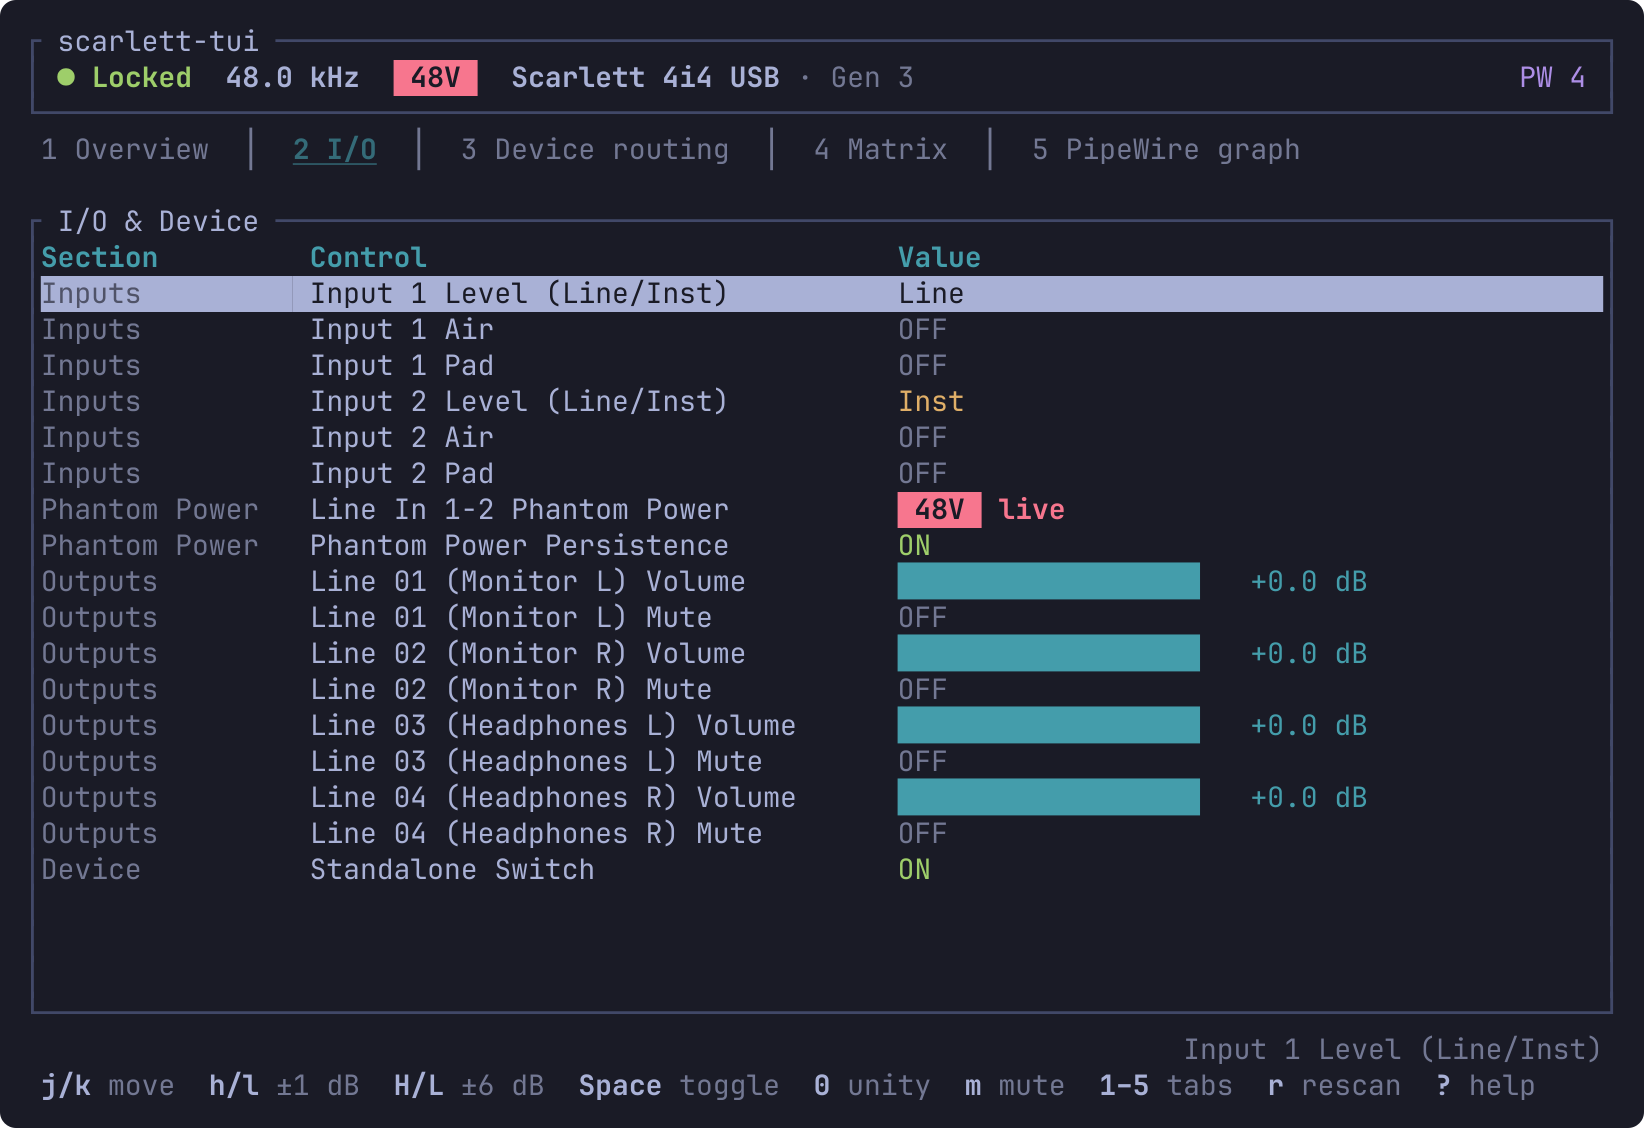
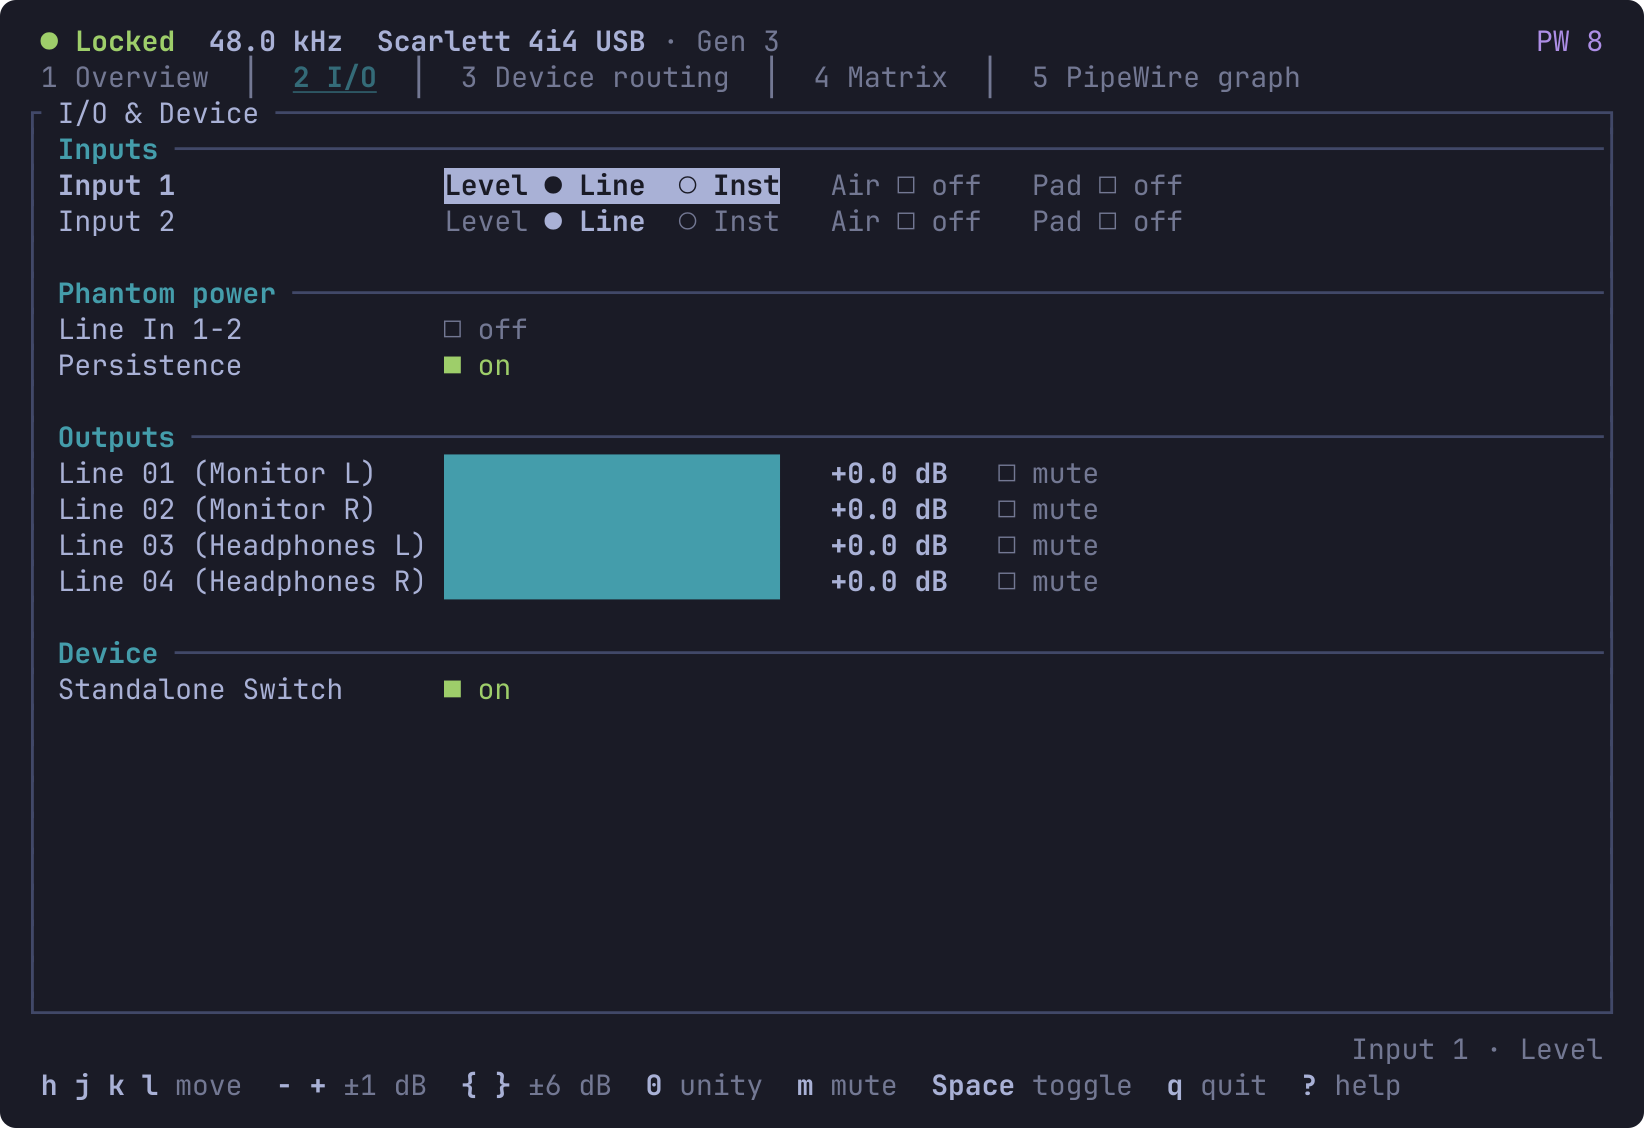
docs: refresh README screenshots after the UX and keys pass
Recaptured at 95x30 from a Scarlett 4i4 Gen 3 (read-only) with the
ignored capture_readme_screenshots test: the one-line header, the
meters-only Overview, the I/O board and the new key hints. Alt text
updated to match.

diff --git a/README.md b/README.md
@@ -13,13 +13,13 @@ panel. No background daemon when unused, no Electron or GTK toolkit, no `sudo`,
 and no hardcoded ALSA `numid`s.
 
 <p align="center">
-  <img src="design/tui-overview.png" alt="Overview tab at 95×30: header with Locked, 48.0 kHz, a red 48V badge and the model; live meters on a dB scale; the input, 48V and routing summary below" width="49%">
+  <img src="design/tui-overview.png" alt="Overview tab at 95×30: a one-line header with Locked, 48.0 kHz and the model; every meter on a dB scale, grouped, each row naming the source that feeds it" width="49%">
   &nbsp;
-  <img src="design/tui-matrix.png" alt="Mix matrix tab: mixes A to F across, each naming the output it feeds; quiet dots for −∞; the cursor cell reversed; a legend line" width="49%">
+  <img src="design/tui-matrix.png" alt="Mix matrix tab: mixes A to F across, each naming the output it feeds; quiet dots for −∞; the cursor cell reversed" width="49%">
 </p>
 
 <p align="center">
-  <img src="design/tui-io.png" alt="I/O tab: input gains, Line/Inst, Air and Pad, 48V as a badge, output volumes and mutes, device switches" width="49%">
+  <img src="design/tui-io.png" alt="I/O tab as a board: one row per channel with Line/Inst, Air and Pad across; 48V in its own section; each output's volume and mute on one row; device switches" width="49%">
   &nbsp;
   <img src="design/tui-help.png" alt="The ? overlay: this tab's keys, safety keys, global keys and an About block with model, USB id, firmware and card" width="49%">
 </p>
